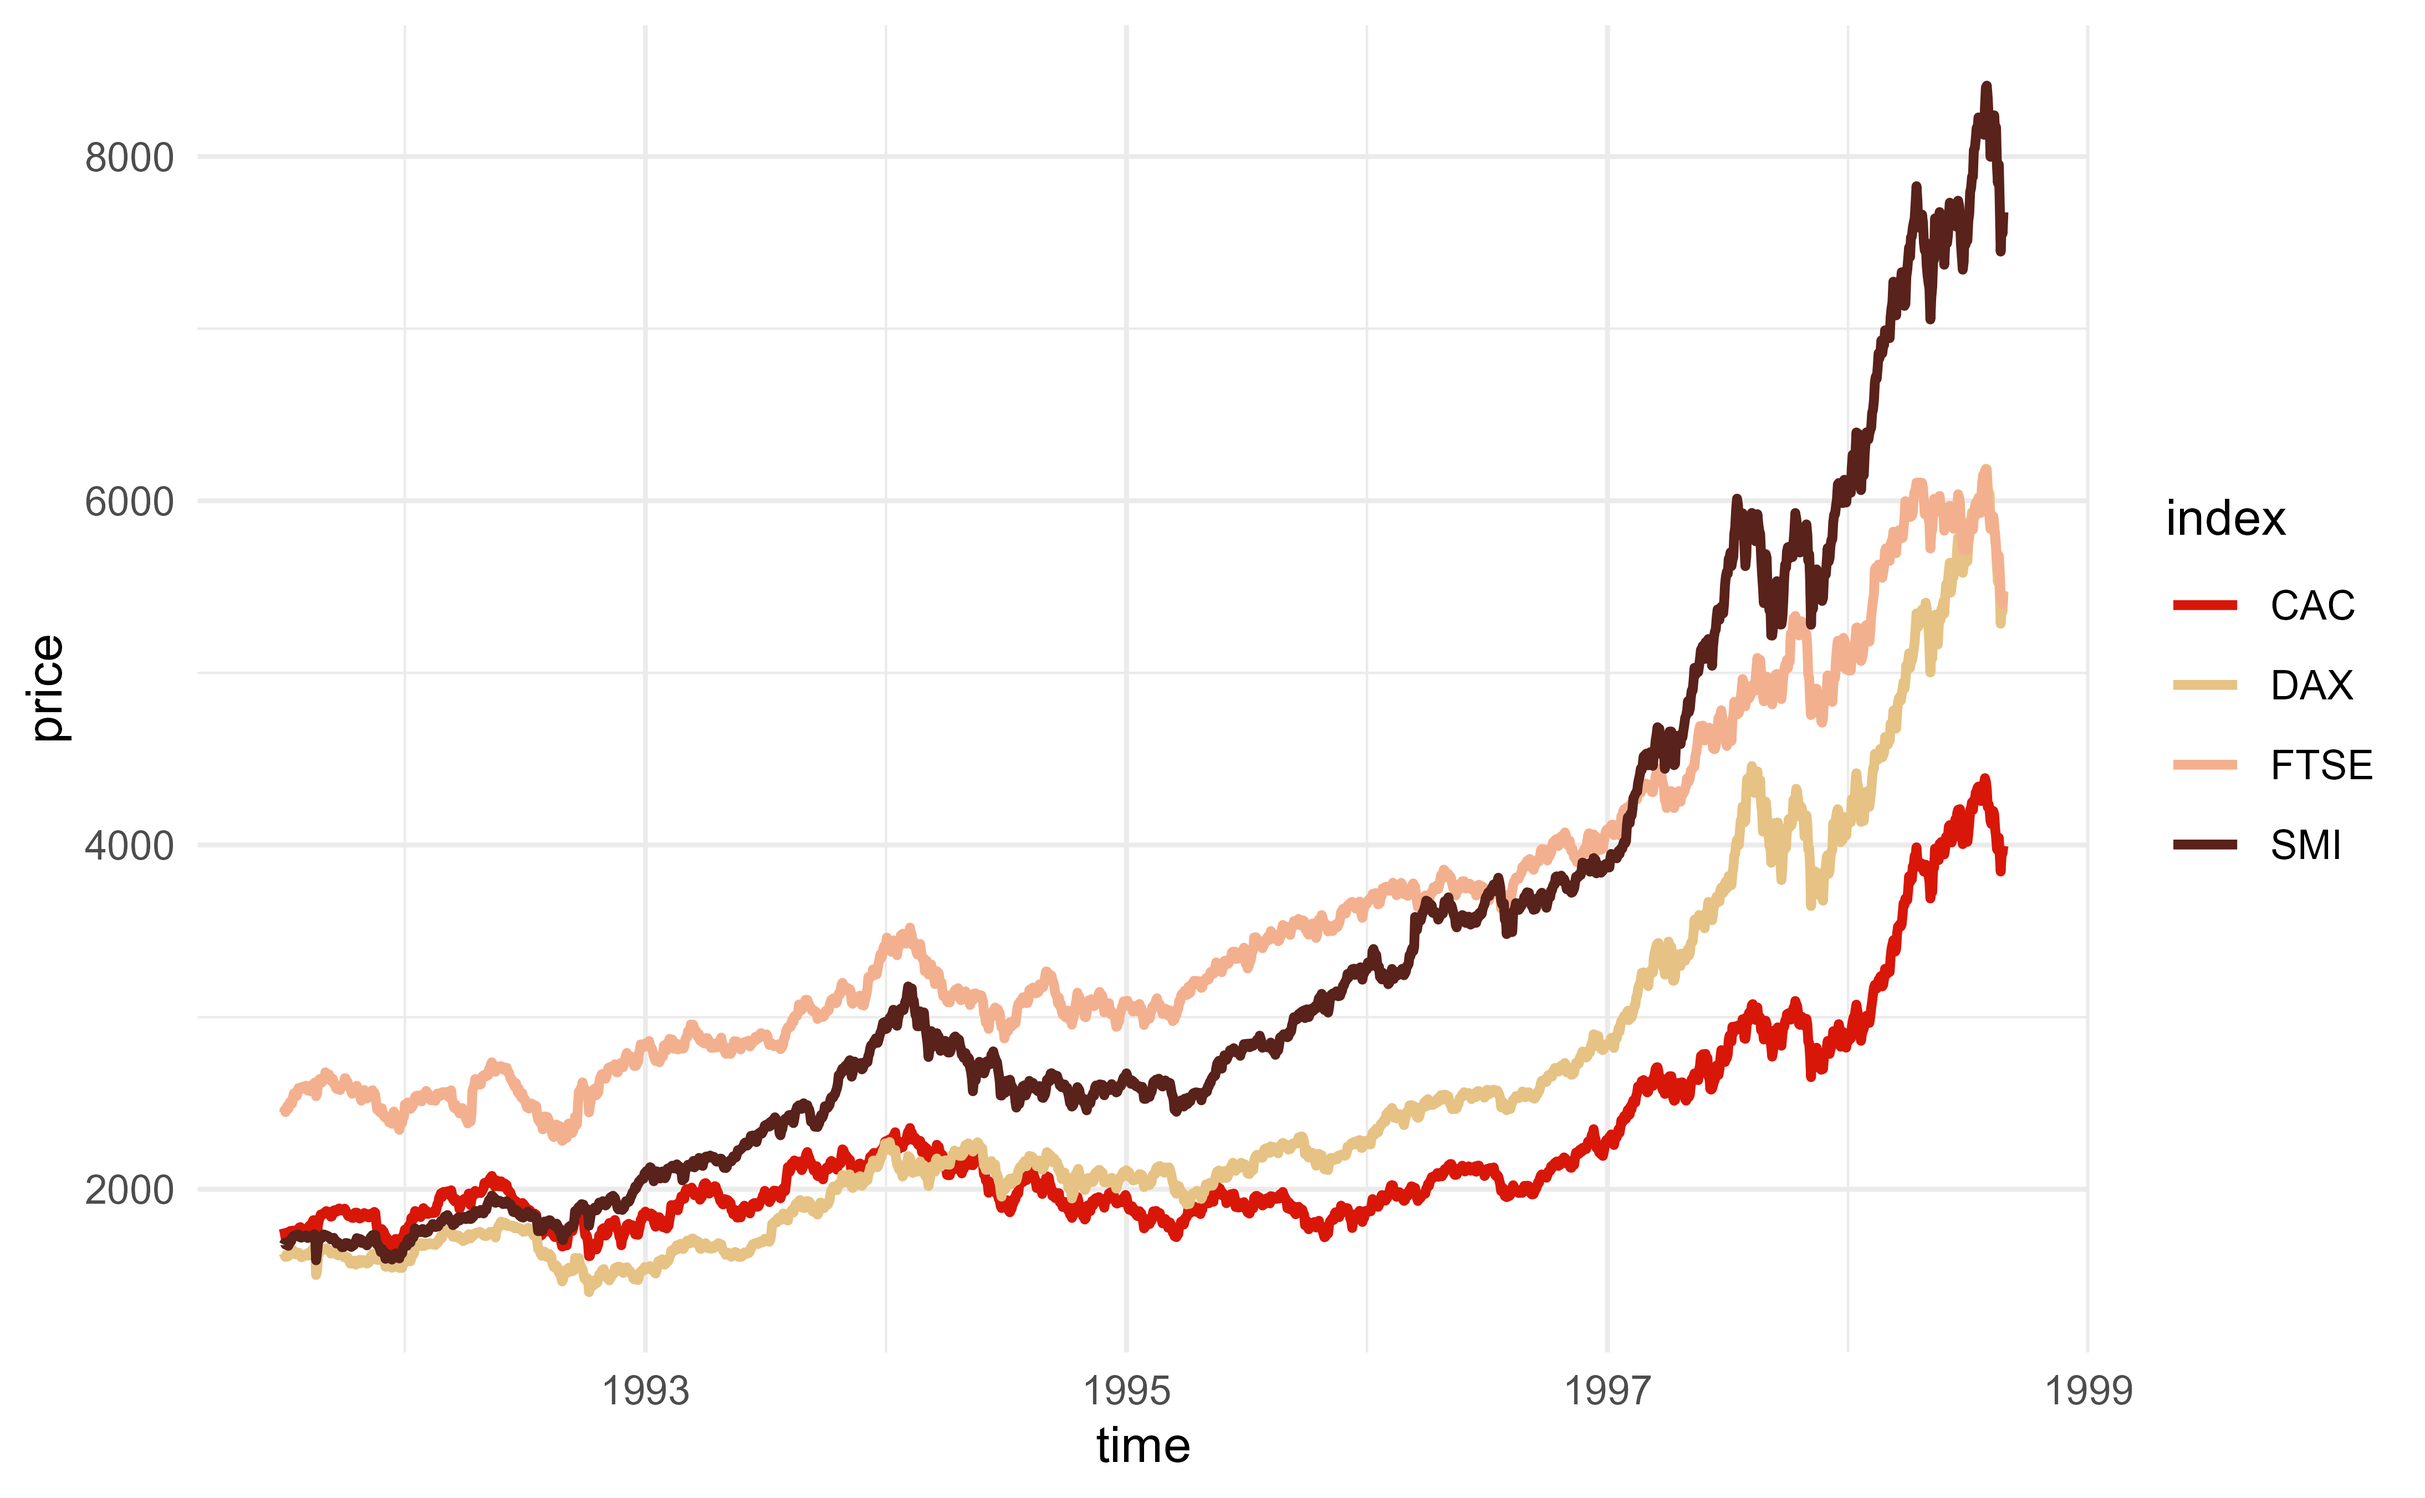
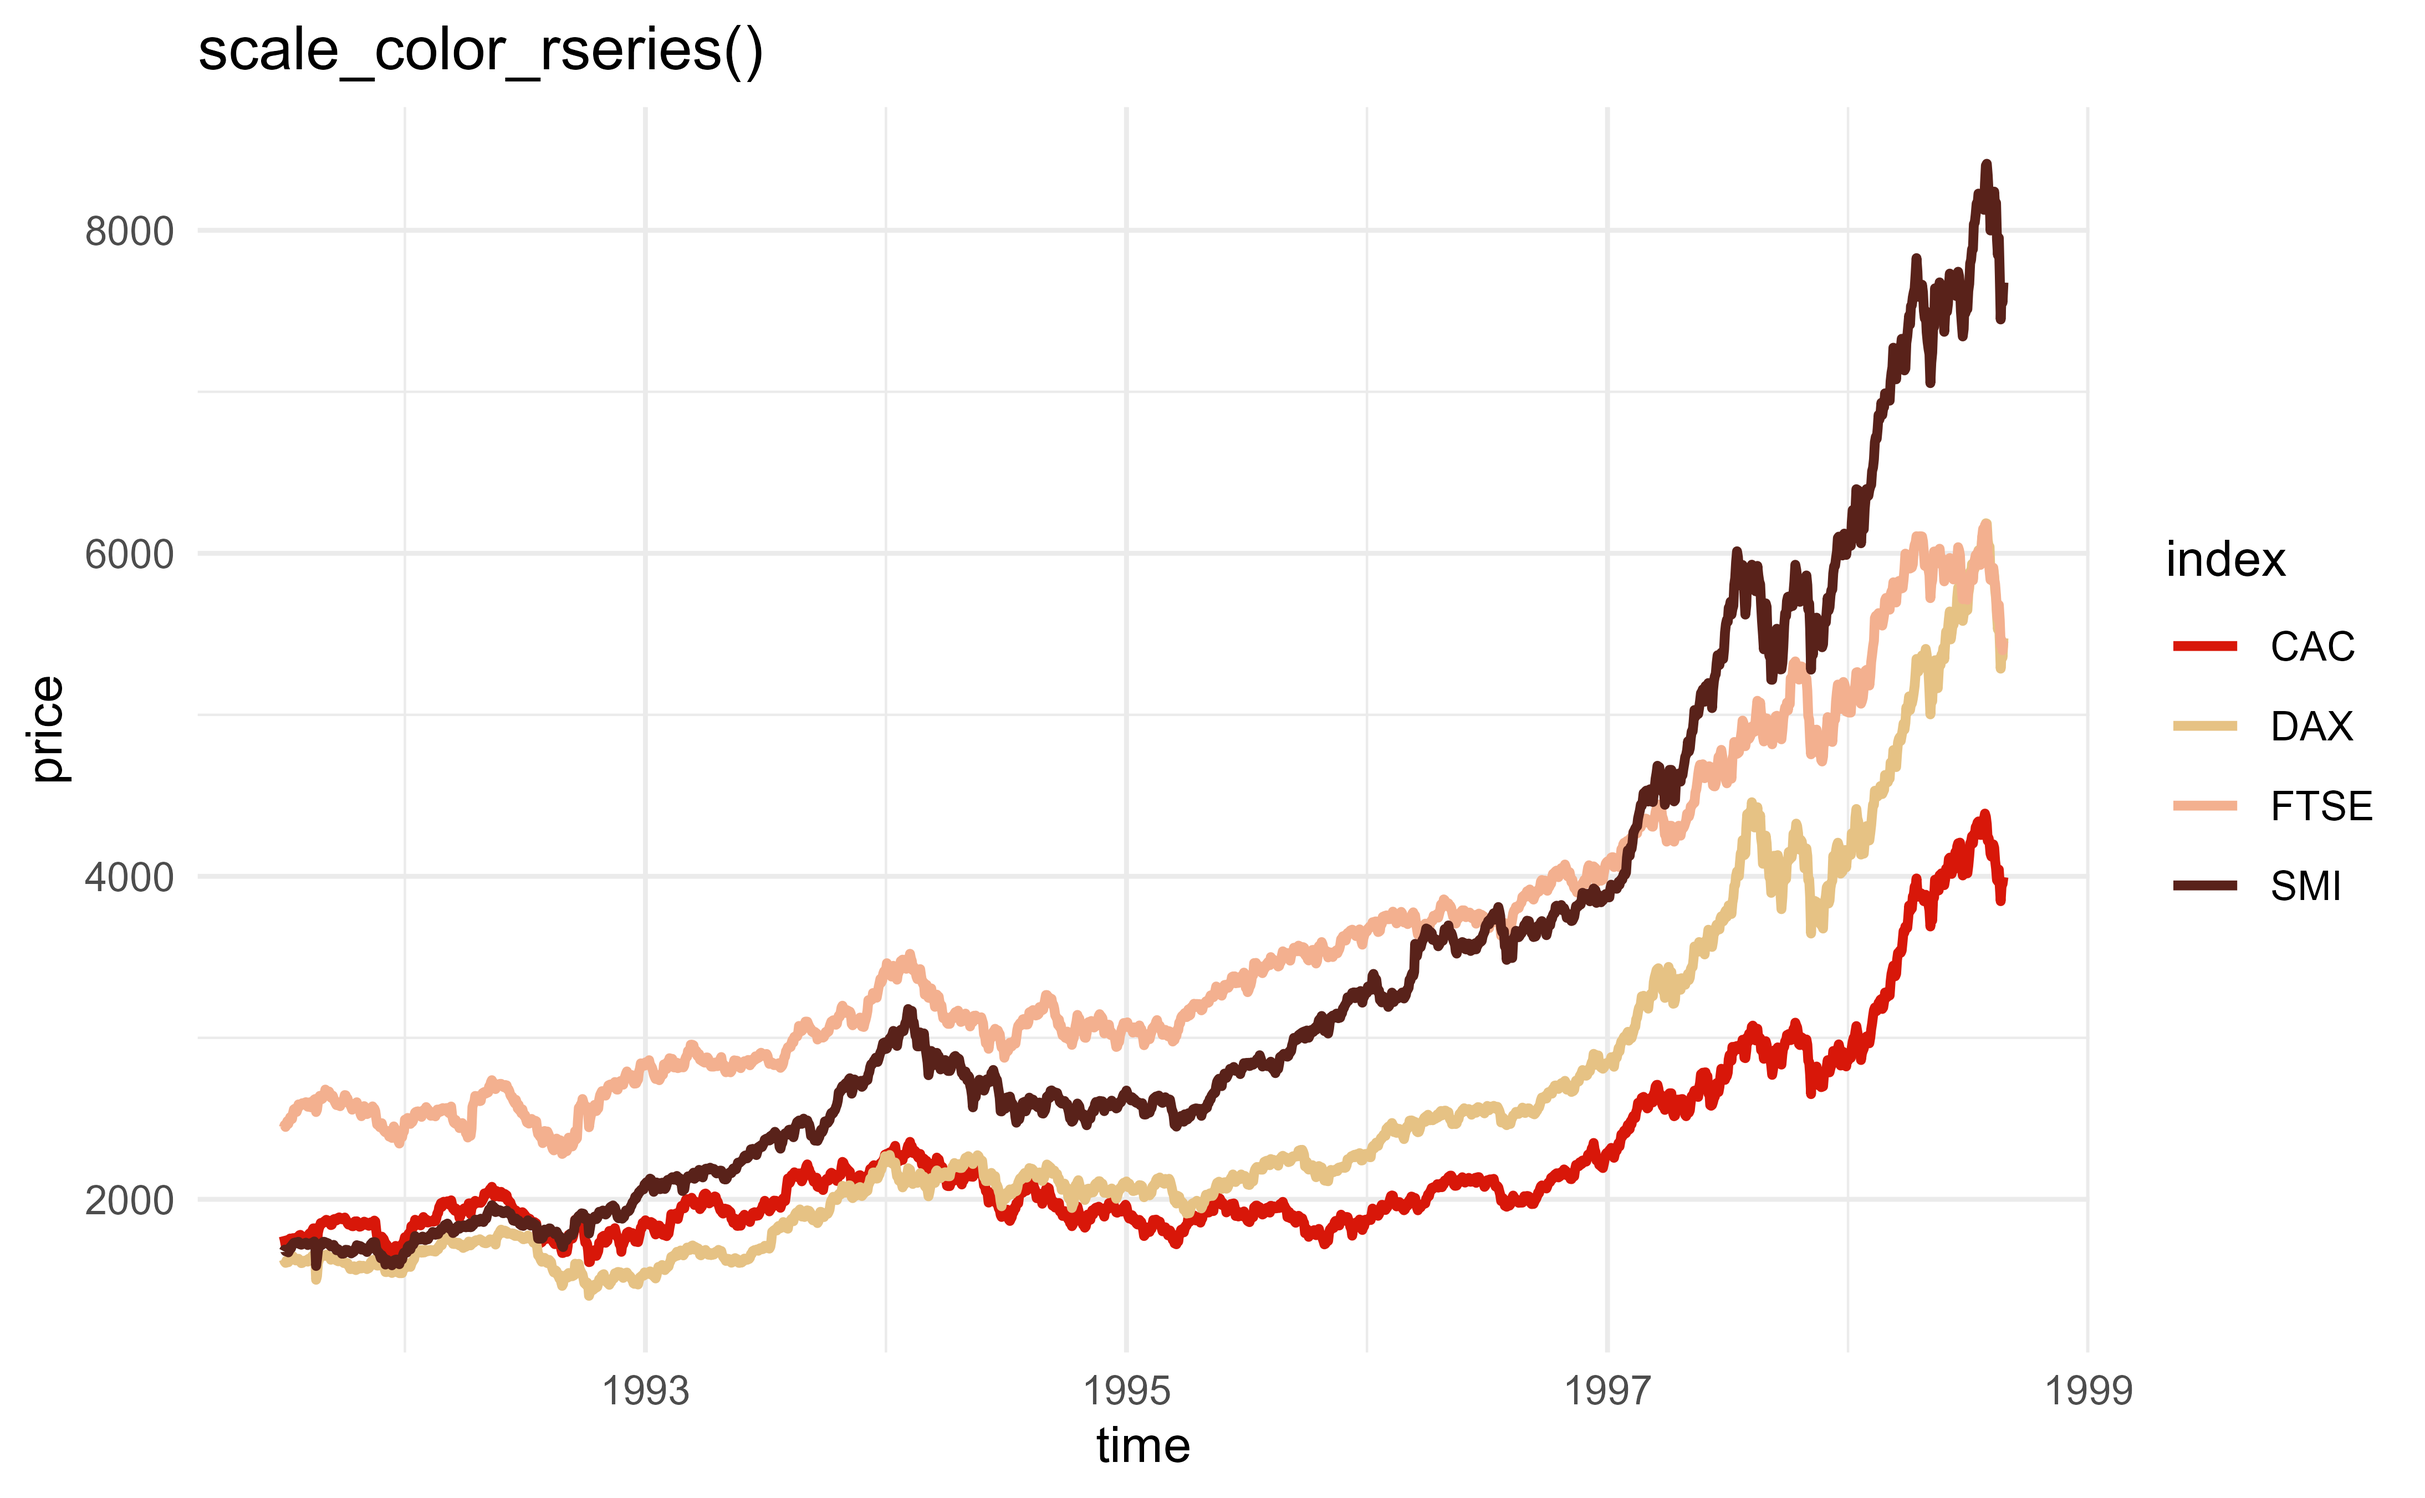
web_site

diff --git a/docs/articles/palette_samples.html b/docs/articles/palette_samples.html
@@ -99,67 +99,157 @@
 <div class="section level3">
 <h3 id="netflyx-family-palettes">Netflyx family palettes<a class="anchor" aria-label="anchor" href="#netflyx-family-palettes"></a>
 </h3>
-<div class="section level5">
-<h5 id="lupin-lupin">
+<div class="section level4">
+<h4 id="lupin-lupin">
 <code>lupin</code> | Lupin<a class="anchor" aria-label="anchor" href="#lupin-lupin"></a>
-</h5>
+</h4>
 <p><img src="pics/lupin.png" width="926" style="display: block; margin: auto;"></p>
 </div>
-<div class="section level5">
-<h5 id="gambitodama-gambito-de-dama">
+<div class="section level4">
+<h4 id="gambitodama-gambito-de-dama">
 <code>GambitoDama</code> | Gambito de dama<a class="anchor" aria-label="anchor" href="#gambitodama-gambito-de-dama"></a>
-</h5>
+</h4>
 <p><img src="pics/gambito_dama.png" width="558" style="display: block; margin: auto;"></p>
 </div>
-<div class="section level5">
-<h5 id="estamosmuert-estamos-muertos">
+<div class="section level4">
+<h4 id="estamosmuert-estamos-muertos">
 <code>EstamosMuert</code> | Estamos Muertos<a class="anchor" aria-label="anchor" href="#estamosmuert-estamos-muertos"></a>
-</h5>
+</h4>
 <p><img src="pics/estamos_muertos.png" width="558" style="display: block; margin: auto;"></p>
+</div>
+<div class="section level4">
+<h4 id="calamar-el-juego-del-calamar">
+<code>Calamar</code> | El juego del calamar<a class="anchor" aria-label="anchor" href="#calamar-el-juego-del-calamar"></a>
+</h4>
+<p><img src="pics/Calamar.png" width="667" style="display: block; margin: auto;"></p>
+</div>
+<div class="section level4">
+<h4 id="castlevania-castlevania">
+<code>Castlevania</code> | Castlevania<a class="anchor" aria-label="anchor" href="#castlevania-castlevania"></a>
+</h4>
+<p><img src="pics/Castlevania.png" width="667" style="display: block; margin: auto;"></p>
+</div>
+<div class="section level4">
+<h4 id="cobrakai-cobra-kai">
+<code>CobraKai</code> | Cobra Kai<a class="anchor" aria-label="anchor" href="#cobrakai-cobra-kai"></a>
+</h4>
+<p><img src="pics/CobraKai.png" width="563" style="display: block; margin: auto;"></p>
+</div>
+<div class="section level4">
+<h4 id="crown-crown">
+<code>crown</code> | Crown<a class="anchor" aria-label="anchor" href="#crown-crown"></a>
+</h4>
+<p><img src="pics/Crown.png" width="926" style="display: block; margin: auto;"></p>
+</div>
+<div class="section level4">
+<h4 id="ozark-ozark">
+<code>Ozark</code> | Ozark<a class="anchor" aria-label="anchor" href="#ozark-ozark"></a>
+</h4>
+<p><img src="pics/Ozark.png" width="559" style="display: block; margin: auto;"></p>
 </div>
 </div>
 <div class="section level3">
 <h3 id="anime-family-palettes">Anime family palettes<a class="anchor" aria-label="anchor" href="#anime-family-palettes"></a>
 </h3>
-<div class="section level5">
-<h5 id="asobi-asobi-asobase">
+<div class="section level4">
+<h4 id="asobi-asobi-asobase">
 <code>asobi</code> | Asobi Asobase<a class="anchor" aria-label="anchor" href="#asobi-asobi-asobase"></a>
-</h5>
+</h4>
 <p><img src="pics/asobi.png" width="555" style="display: block; margin: auto;"></p>
 </div>
-<div class="section level5">
-<h5 id="bolt-boruto">
+<div class="section level4">
+<h4 id="bolt-boruto">
 <code>bolt</code> | Boruto<a class="anchor" aria-label="anchor" href="#bolt-boruto"></a>
-</h5>
+</h4>
 <p><img src="pics/bolt.png" width="555" style="display: block; margin: auto;"></p>
 </div>
-<div class="section level5">
-<h5 id="poputepik-pop-team-epic">
+<div class="section level4">
+<h4 id="ggo-sao-alternative-gun-game-online">
+<code>ggo</code> | SAO Alternative: Gun Game Online<a class="anchor" aria-label="anchor" href="#ggo-sao-alternative-gun-game-online"></a>
+</h4>
+<p><img src="pics/ggo.png" width="555" style="display: block; margin: auto;"></p>
+</div>
+<div class="section level4">
+<h4 id="poputepik-pop-team-epic">
 <code>poputepik</code> | Pop Team Epic<a class="anchor" aria-label="anchor" href="#poputepik-pop-team-epic"></a>
-</h5>
+</h4>
 <p><img src="pics/poputepik.png" width="555" style="display: block; margin: auto;"></p>
+</div>
+<div class="section level4">
+<h4 id="takt-takt-op-destiny">
+<code>takt</code> | Takt Op.Destiny<a class="anchor" aria-label="anchor" href="#takt-takt-op-destiny"></a>
+</h4>
+<p><img src="pics/takt.png" width="555" style="display: block; margin: auto;"></p>
+</div>
+<div class="section level4">
+<h4 id="tokyorev-tokyo-revengers">
+<code>tokyorev</code> | Tokyo Revengers<a class="anchor" aria-label="anchor" href="#tokyorev-tokyo-revengers"></a>
+</h4>
+<p><img src="pics/tokyorev.png" width="555" style="display: block; margin: auto;"></p>
+</div>
+<div class="section level4">
+<h4 id="yona-akatsuki-no-yona">
+<code>yona</code> | Akatsuki no Yona<a class="anchor" aria-label="anchor" href="#yona-akatsuki-no-yona"></a>
+</h4>
+<p><img src="pics/yona.png" width="555" style="display: block; margin: auto;"></p>
+</div>
+<div class="section level4">
+<h4 id="yuri-yuri-on-ice">
+<code>yuri</code> | Yuri!!! on Ice<a class="anchor" aria-label="anchor" href="#yuri-yuri-on-ice"></a>
+</h4>
+<p><img src="pics/yuri.png" width="555" style="display: block; margin: auto;"></p>
 </div>
 </div>
 <div class="section level3">
 <h3 id="peru-family-palettes">Peru family palettes<a class="anchor" aria-label="anchor" href="#peru-family-palettes"></a>
 </h3>
-<div class="section level5">
-<h5 id="alfondohaysitio-al-fondo-hay-sitio">
+<div class="section level4">
+<h4 id="alfondohaysitio-al-fondo-hay-sitio">
 <code>AlFondoHaySitio</code> | Al Fondo hay sitio<a class="anchor" aria-label="anchor" href="#alfondohaysitio-al-fondo-hay-sitio"></a>
-</h5>
+</h4>
 <p><img src="pics/AlFondoHaySitio.png" width="667" style="display: block; margin: auto;"></p>
 </div>
-<div class="section level5">
-<h5 id="devueltabarrio-de-vuelta-al-barrio">
+<div class="section level4">
+<h4 id="devueltabarrio-de-vuelta-al-barrio">
 <code>DeVueltaBarrio</code> | De vuelta al barrio<a class="anchor" aria-label="anchor" href="#devueltabarrio-de-vuelta-al-barrio"></a>
-</h5>
+</h4>
 <p><img src="pics/DeVueltaBarrio.png" width="919" style="display: block; margin: auto;"></p>
 </div>
-<div class="section level5">
-<h5 id="miloficios-mil-oficios">
+<div class="section level4">
+<h4 id="graffitti-graffitti">
+<code>Graffitti</code> | Graffitti<a class="anchor" aria-label="anchor" href="#graffitti-graffitti"></a>
+</h4>
+<p><img src="pics/Graffitti.png" width="609" style="display: block; margin: auto;"></p>
+</div>
+<div class="section level4">
+<h4 id="gransangre-la-gran-sangre">
+<code>GranSangre</code> | La Gran Sangre<a class="anchor" aria-label="anchor" href="#gransangre-la-gran-sangre"></a>
+</h4>
+<p><img src="pics/GranSangre.png" width="667" style="display: block; margin: auto;"></p>
+</div>
+<div class="section level4">
+<h4 id="juntavecinos-junta-de-vecinos">
+<code>JuntaVecinos</code> | Junta de vecinos<a class="anchor" aria-label="anchor" href="#juntavecinos-junta-de-vecinos"></a>
+</h4>
+<p><img src="pics/JuntaVecinos.png" width="977" style="display: block; margin: auto;"></p>
+</div>
+<div class="section level4">
+<h4 id="lapre-la-pre">
+<code>LaPre</code> | La pre<a class="anchor" aria-label="anchor" href="#lapre-la-pre"></a>
+</h4>
+<p><img src="pics/LaPre.png" width="926" style="display: block; margin: auto;"></p>
+</div>
+<div class="section level4">
+<h4 id="miloficios-mil-oficios">
 <code>MilOficios</code> | Mil oficios<a class="anchor" aria-label="anchor" href="#miloficios-mil-oficios"></a>
-</h5>
+</h4>
 <p><img src="pics/MilOficios.png" width="563" style="display: block; margin: auto;"></p>
+</div>
+<div class="section level4">
+<h4 id="quebuenaraza-qué-buena-raza">
+<code>QueBuenaRaza</code> | Qué buena raza!<a class="anchor" aria-label="anchor" href="#quebuenaraza-qu%C3%A9-buena-raza"></a>
+</h4>
+<p><img src="pics/QueBuenaRaza.png" width="784" style="display: block; margin: auto;"></p>
 </div>
 </div>
 </div>

diff --git a/docs/articles/Introduction_to_R_series.html b/docs/articles/Introduction_to_R_series.html
@@ -456,7 +456,7 @@
 </div>
 </div>
 <div class="section level2">
-<h2 id="anime-palette-family">Anime palette family<a class="anchor" aria-label="anchor" href="#anime-palette-family"></a>
+<h2 id="crunchyroll-anime-palette-family">Crunchyroll (Anime palette family)<a class="anchor" aria-label="anchor" href="#crunchyroll-anime-palette-family"></a>
 </h2>
 <div class="section level3">
 <h3 class="tabset" id="palette-poputepik">Palette: <code>poputepik</code><a class="anchor" aria-label="anchor" href="#palette-poputepik"></a>
@@ -1204,7 +1204,8 @@
   <span class="fu"><a href="https://ggplot2.tidyverse.org/reference/geom_path.html" class="external-link">geom_line</a></span><span class="op">(</span><span class="fu"><a href="https://ggplot2.tidyverse.org/reference/aes.html" class="external-link">aes</a></span><span class="op">(</span>color <span class="op">=</span> <span class="va">index</span>,x<span class="op">=</span><span class="va">time</span>,y<span class="op">=</span><span class="va">price</span><span class="op">)</span>, size <span class="op">=</span> <span class="fl">1</span><span class="op">)</span> <span class="op">+</span>
   <span class="fu"><a href="../reference/scale_color_rseries.html">scale_color_rseries</a></span><span class="op">(</span>palette <span class="op">=</span> <span class="st">"tokyorev"</span>,
                       palette_family <span class="op">=</span> <span class="va">palette_anime</span><span class="op">)</span>  <span class="op">+</span>
-  <span class="fu"><a href="https://ggplot2.tidyverse.org/reference/ggtheme.html" class="external-link">theme_minimal</a></span><span class="op">(</span><span class="op">)</span></code></pre></div>
+  <span class="fu"><a href="https://ggplot2.tidyverse.org/reference/ggtheme.html" class="external-link">theme_minimal</a></span><span class="op">(</span><span class="op">)</span><span class="op">+</span>
+  <span class="fu"><a href="https://ggplot2.tidyverse.org/reference/labs.html" class="external-link">ggtitle</a></span><span class="op">(</span><span class="st">'scale_color_rseries()'</span><span class="op">)</span></code></pre></div>
 <p><img src="Introduction_to_R_series_files/figure-html/unnamed-chunk-43-1.png" width="2187.5" style="display: block; margin: auto;"></p>
 </div>
   </main><aside class="col-md-3"><nav id="toc"><h2>On this page</h2>

diff --git a/docs/news/index.html b/docs/news/index.html
@@ -58,7 +58,7 @@
 <h2 class="pkg-version" data-toc-text="0.0.1" id="rseries-001">Rseries 0.0.1<a class="anchor" aria-label="anchor" href="#rseries-001"></a></h2>
 <ul><li>First release of the package</li>
 <li>Added a <code>NEWS.md</code> file to track changes to the package.</li>
-<li>Added palettes based on Netflyx series , and Anime</li>
+<li>Added family palettes based on Netflyx series, Crunchyroll series (Anime series), and local TV</li>
 </ul></div>
   </main></div>
 
